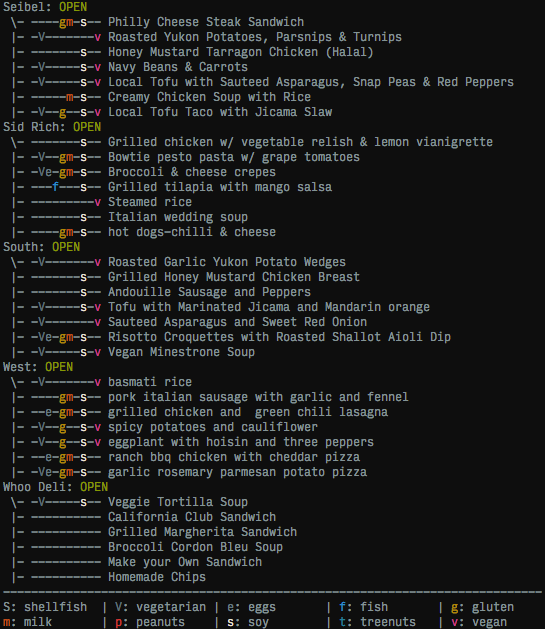
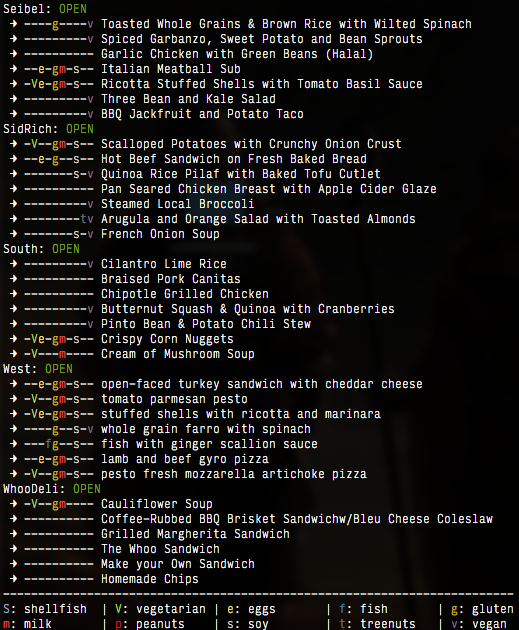
Improve README

Changed region(s): [[0.0, 0.0, 1.0, 1.0]]

diff --git a/lib/rice/dining/version.rb b/lib/rice/dining/version.rb
@@ -1,7 +1,7 @@
 module Rice
   module Dining
     module Version
-      VERSION     = '0.2.4'.freeze
+      VERSION     = '0.2.5'.freeze
       SHORT_NAME  = Rice::Dining.to_s.freeze
       SHORT_IDENT = "#{SHORT_NAME} v#{VERSION}".freeze
       NAME        = SHORT_NAME.freeze

diff --git a/README.md b/README.md
@@ -1,18 +1,61 @@
 # rice-dining
 
-Provides a `rice-dining` executable that prints servery offerings at Rice.
+Provides a `rice-dining` executable that prints servery offerings at Rice,
+with an API that you can use to extract semi-structured data from the
+servery menu.
+
+If you don't like Ruby, shell out from nodejs or something.
 
 ## Installation
 
 `gem install rice-dining`
 
+## Using it in your HackRice party planning app
+
+Everyone loves CSV, right?
+
+```ruby
+require 'rice/dining'
+require 'csv'
+
+manifest = Rice::Dining.manifest
+
+CSV.open('dining.csv', 'w') do |csv|
+  mf.locations.each do |loc|
+    loc.items.each do |item|
+      csv << [loc.name, loc.open?, item.name, item.allergens.map(&:id).join(' ')]
+    end
+  end
+end
+```
+
+```csv
+<...>
+
+Baker,true,Roasted red potatoes,vegan
+Baker,true,Buffalo chicken drumsticks with bleu cheese,milk
+Baker,true,Cod loin with roasted asparagus and corn,fish
+Baker,true,Grilled tofu steaks with chimichurri,soy vegan
+Baker,true,Roasted cauliflower & crispy garbanzos,soy vegan
+Baker,true,Margherita pizza,gluten milk soy vegetarian
+Baker,true,Pinto bean soup with pico de gallo,soy vegan
+```
+
+Note that this query was performed at like 4AM Houston time and all the
+locations were "open" according to dining.rice.edu ¯\_(ツ)_/¯
+
 ## Invocation
 
-Run `rice-dining` to print status for everything, or `rice-dining <regex>` to print status
-for locations matching `<regex>`.
+Run `rice-dining` to print status for everything, or `rice-dining <regex>` to
+print status for locations matching `<regex>`.
 
-For example, `rice-dining 'baker|seibel'` would display information for the Baker and
-Seibel serveries.
+For example, `rice-dining 'baker|seibel'` would display information for the
+Baker and Seibel serveries.
+
+## Unicode
+
+If the unicode arrows bug you, export `RICE_DINING_NO_UNICODE` and they will
+go away.
 
 ## Screenshot
 
